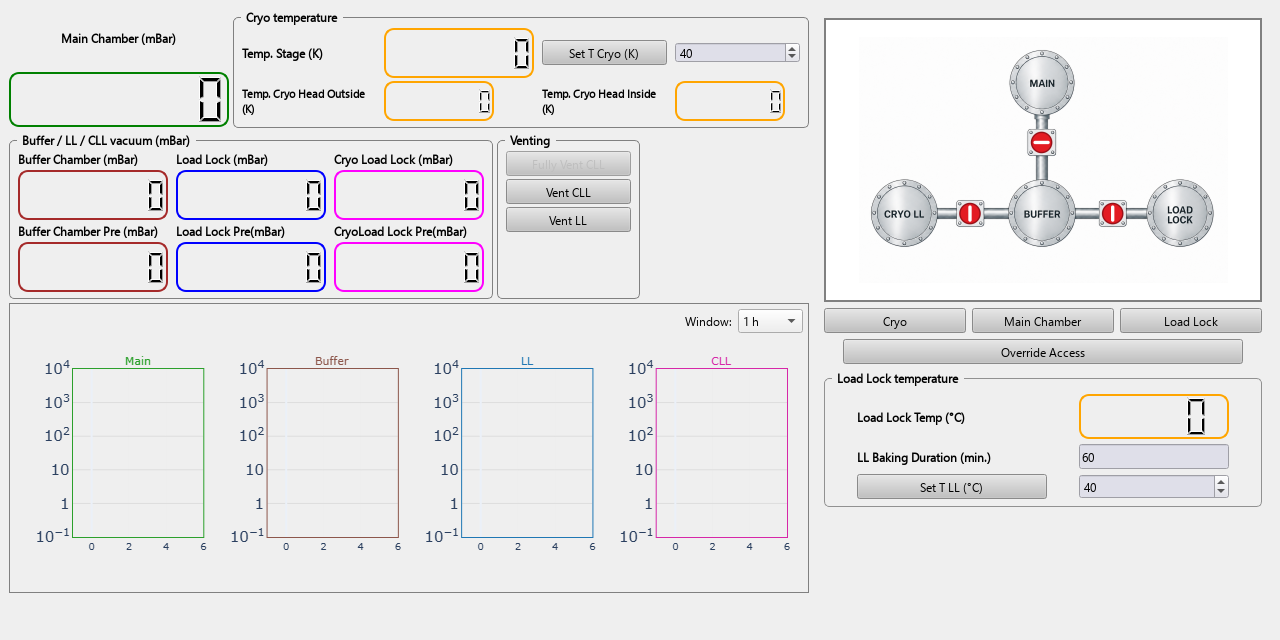
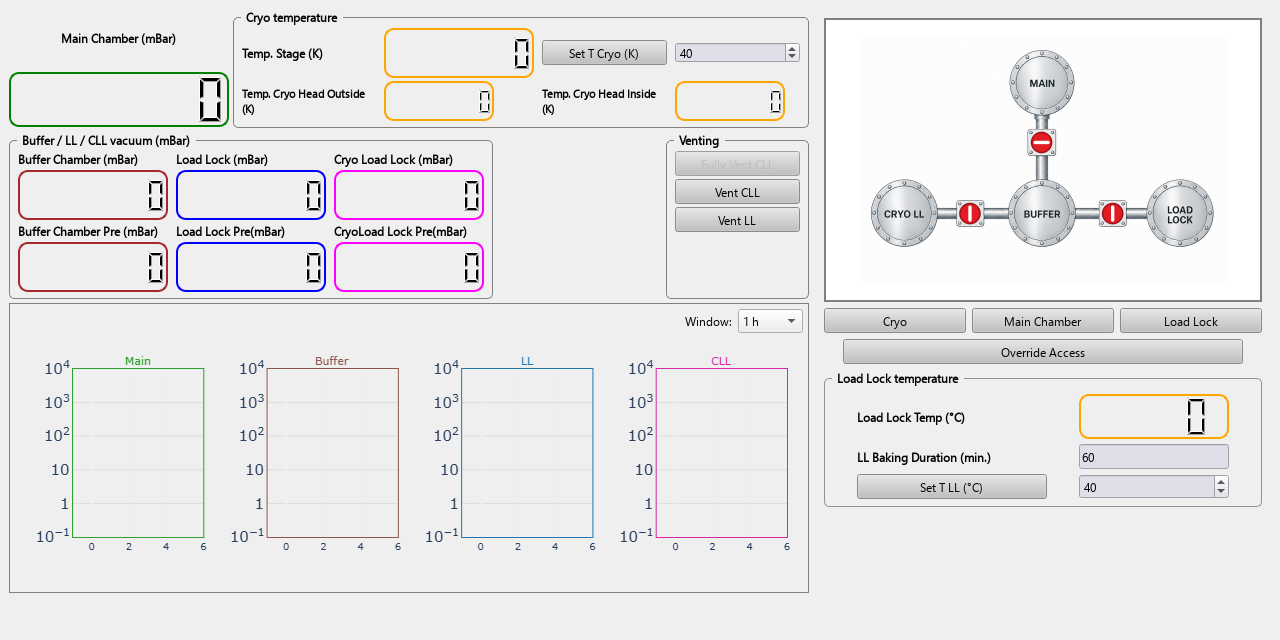
Separate venting controls from vacuum gauges beside Gates

Changed region(s): [[0.375, 0.2188, 0.625, 0.375]]

diff --git a/pyccapt/control/gui/pump_layout.py b/pyccapt/control/gui/pump_layout.py
@@ -58,6 +58,10 @@ class PumpLayoutMixin:
                 label.setMaximumWidth(170)
                 gauges.addWidget(label, row * 2, column)
                 gauges.addWidget(lcd, row * 2 + 1, column)
+        # Let this column grow to the full pre-vacuum label width rather
+        # than wrapping its units onto a second line above the LCD.
+        self.label_214.setMaximumWidth(16777215)
+        self.label_214.setWordWrap(False)
 
         self.venting_group, venting = group('Venting', 'venting_group')
         for row, button in enumerate((self.pump_cryo_load_lock_switch,
@@ -68,8 +72,10 @@ class PumpLayoutMixin:
         venting.setRowStretch(3, 1)
         lower = QtWidgets.QHBoxLayout()
         lower.addWidget(self.vacuum_gauges_group)
+        # Spare width separates the gauges from venting and keeps venting
+        # beside the Gates diagram at the right edge of the pump panel.
+        lower.addStretch(1)
         lower.addWidget(self.venting_group)
-        lower.addStretch()
         readings.addLayout(lower, 1, 0, 1, 2)
         self.verticalLayout.insertWidget(0, self.pump_readings_panel)
         self.verticalLayout.setSpacing(4)

diff --git a/tests/control/test_responsive_gui.py b/tests/control/test_responsive_gui.py
@@ -290,6 +290,14 @@ def test_pump_groups_keep_displays_and_controls_visible(instrument_window, tmp_p
     combined = isinstance(ui.temp_ll.parentWidget(), QtWidgets.QGroupBox)
     assert window.width() <= (1280 if combined else 840)
     assert window.height() <= (640 if combined else 720)
+    assert not ui.label_214.wordWrap()
+    assert ui.label_214.width() >= ui.label_214.fontMetrics().horizontalAdvance(ui.label_214.text())
+    gauges_right = ui.vacuum_gauges_group.mapTo(window, ui.vacuum_gauges_group.rect().topRight()).x()
+    venting_left = ui.venting_group.mapTo(window, QtCore.QPoint()).x()
+    assert venting_left - gauges_right >= 80
+    panel_right = ui.pump_readings_panel.mapTo(window, ui.pump_readings_panel.rect().topRight()).x()
+    venting_right = ui.venting_group.mapTo(window, ui.venting_group.rect().topRight()).x()
+    assert panel_right == venting_right
     gauges = (ui.vacuum_buffer, ui.vacuum_buffer_back, ui.vacuum_load_lock,
               ui.vacuum_load_lock_back, ui.vacuum_cryo_load_lock, ui.vacuum_cryo_load_lock_back)
     for lcd in gauges:

diff --git a/README.md b/README.md
@@ -196,6 +196,8 @@ group cryo temperatures and their target control, the three venting buttons, and
 all six Buffer/LL/CLL chamber and pre-vacuum displays. The gauge displays keep
 their existing sizes and colours; the vacuum plots, Gates controls and load-lock
 temperature controls remain visible. Smaller monitors use scrolling as needed.
+Venting sits beside the Gates diagram, separated from the vacuum LCDs by open
+space. The Buffer Chamber Pre label has enough width to stay on one line.
 
 Stage Control opens at 880 × 220. Its nine position readouts and speed selectors
 use compact widths, with less spacing around the headers and Z jog buttons.

diff --git a/docs/CONTROL.md b/docs/CONTROL.md
@@ -200,6 +200,8 @@ retain their 150 × 50 sizes and warning colours. The combined Pumps/Vacuum and
 Gates window opens at 1280 × 640; standalone Pumps/Vacuum opens at 840 × 720.
 The vacuum history plots, Gates controls, load-lock temperature controls and
 error messages remain available, with scrolling on smaller monitors.
+Venting is aligned beside the Gates diagram with a gap from the vacuum displays.
+The Buffer Chamber Pre label sizes to its full text and stays on one line.
 
 Stage Control opens at 880 × 220 with compact position readouts and speed fields,
 closely spaced Z jog buttons and smaller layout margins. All nine mm/µm/nm

diff --git a/pyccapt/control/CONTROL.md b/pyccapt/control/CONTROL.md
@@ -197,6 +197,8 @@ colours. The combined Pumps/Vacuum and Gates window opens at 1280 × 640, and th
 standalone Pumps/Vacuum window opens at 840 × 720. Vacuum history, Gates controls,
 load-lock temperature/baking controls and error messages remain available;
 smaller monitors scroll without hiding controls.
+Venting is aligned beside the Gates diagram with a gap from the vacuum displays.
+The Buffer Chamber Pre label sizes to its full text and stays on one line.
 
 Stage Control opens at 880 × 220 with compact 64 × 28 position readouts and
 speed-selector widths sized for the configured table. The nine mm/µm/nm readouts,
